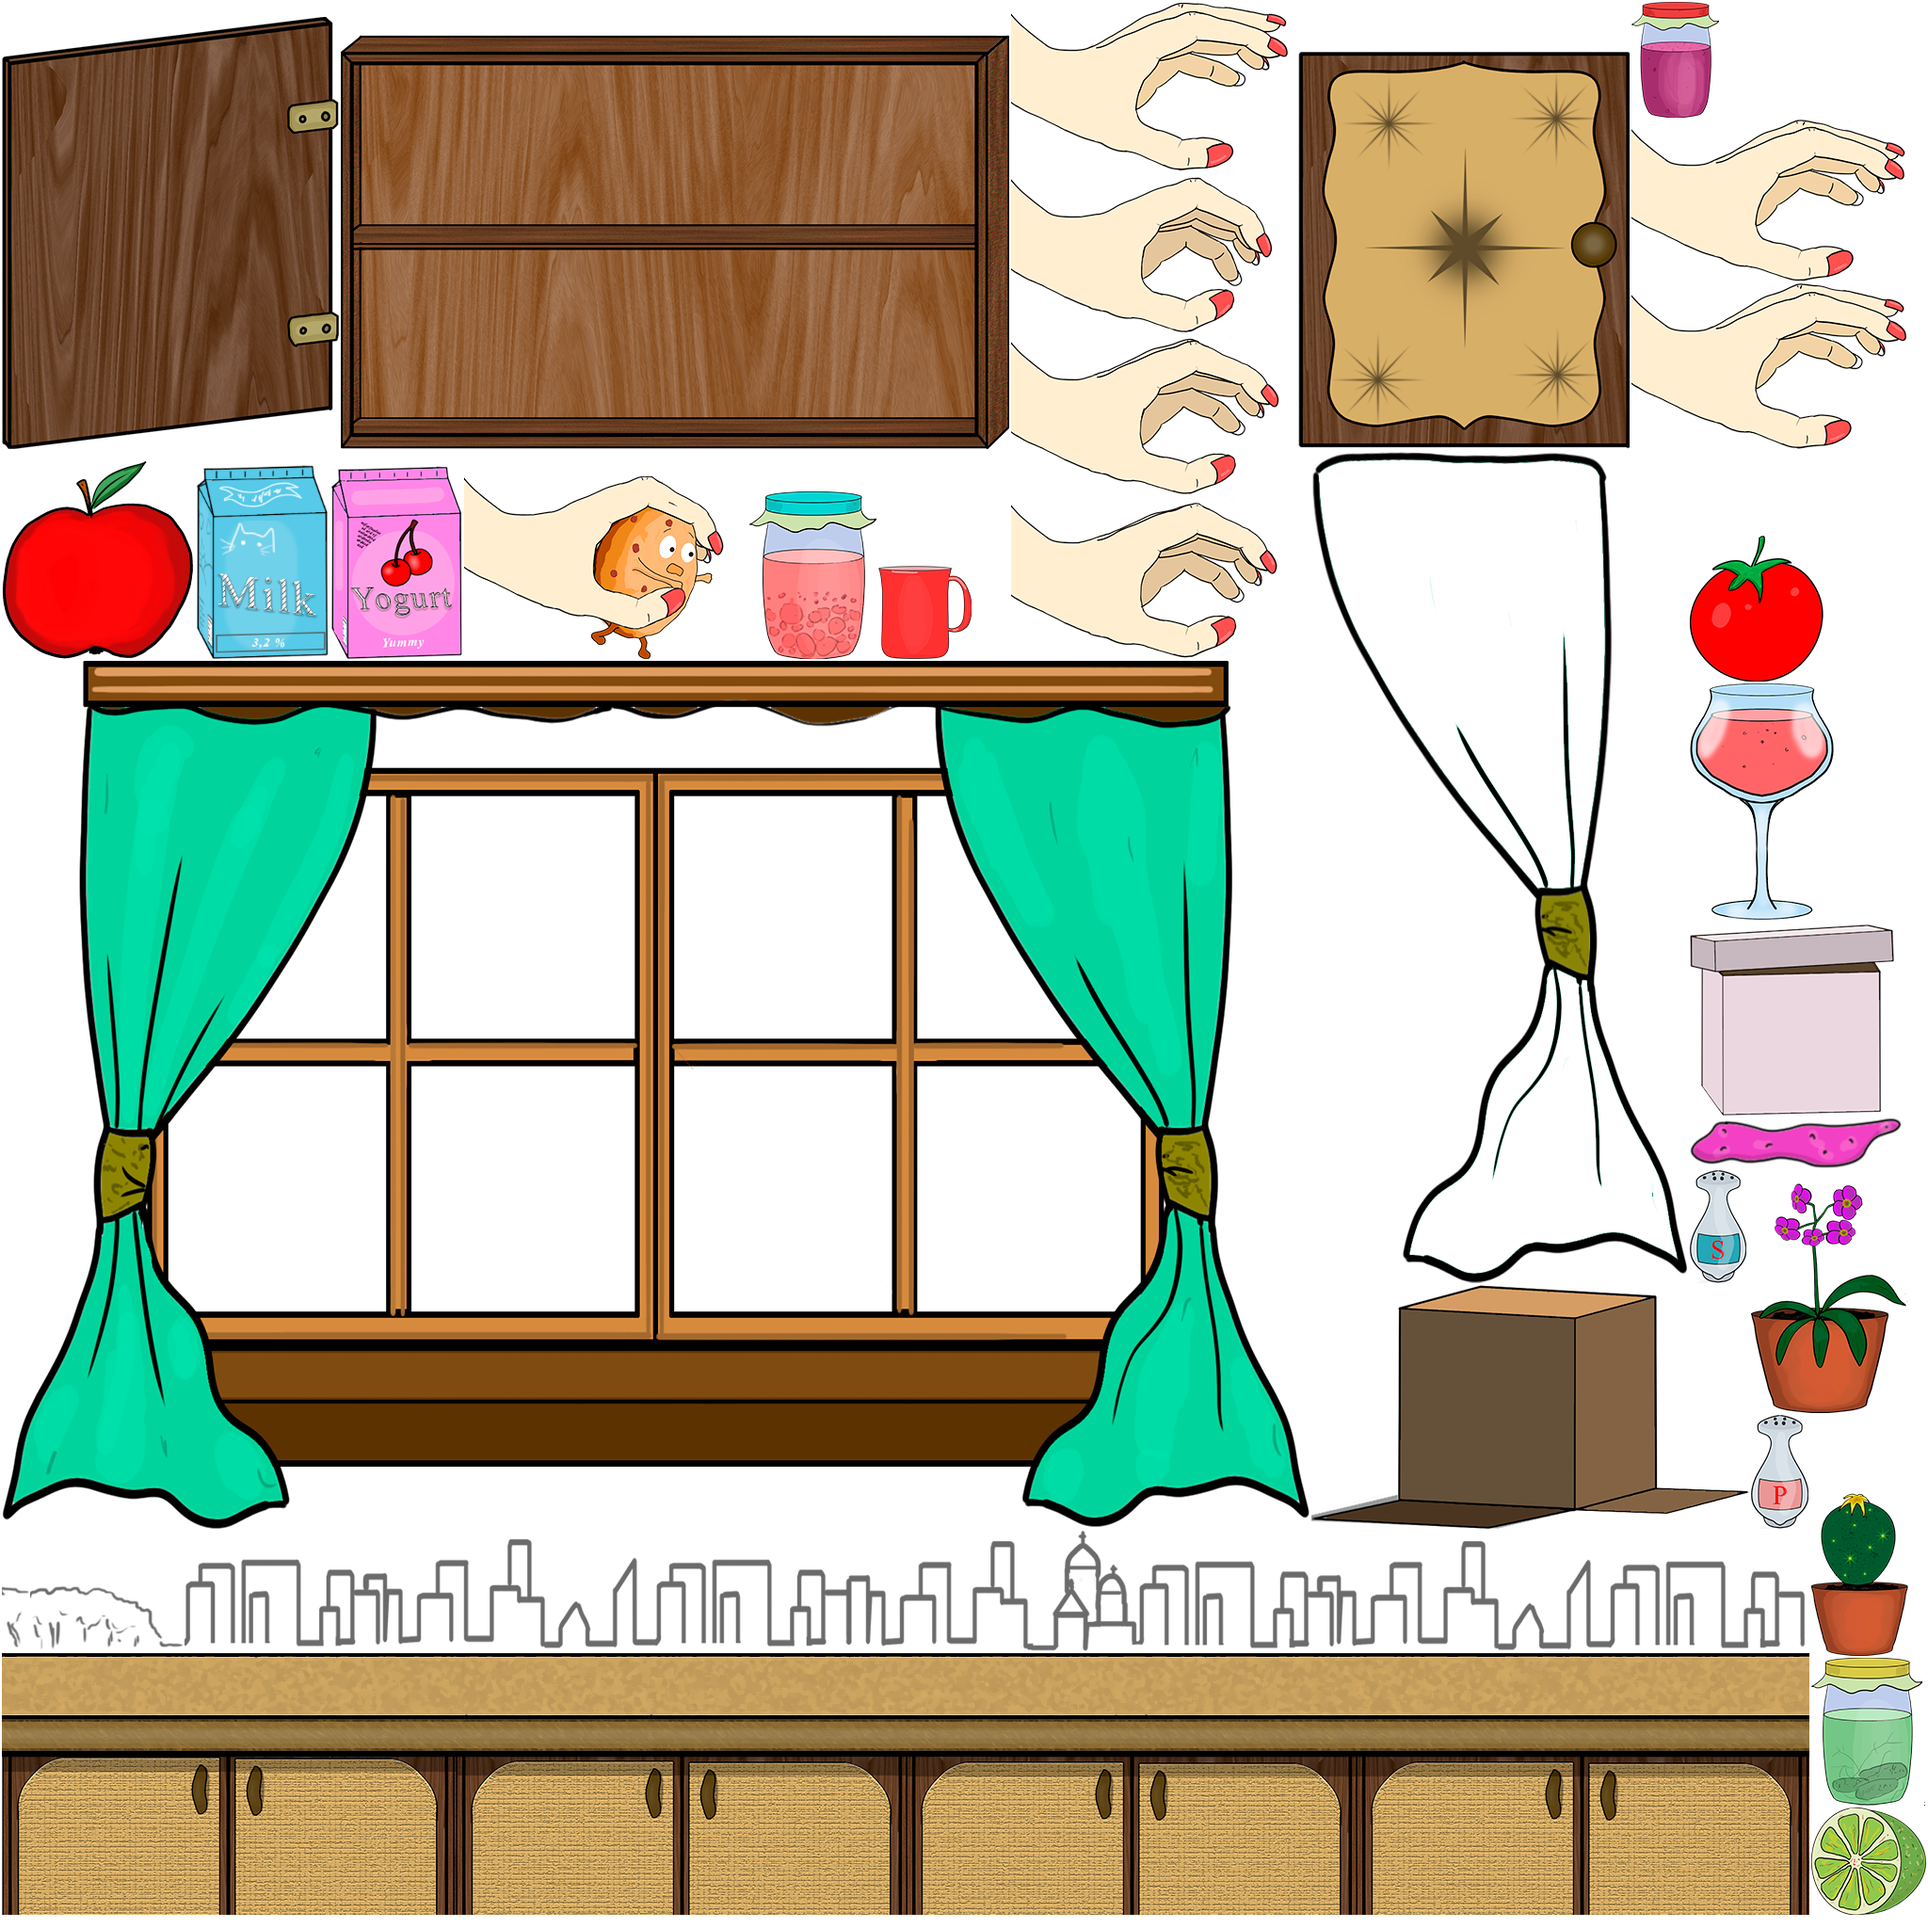
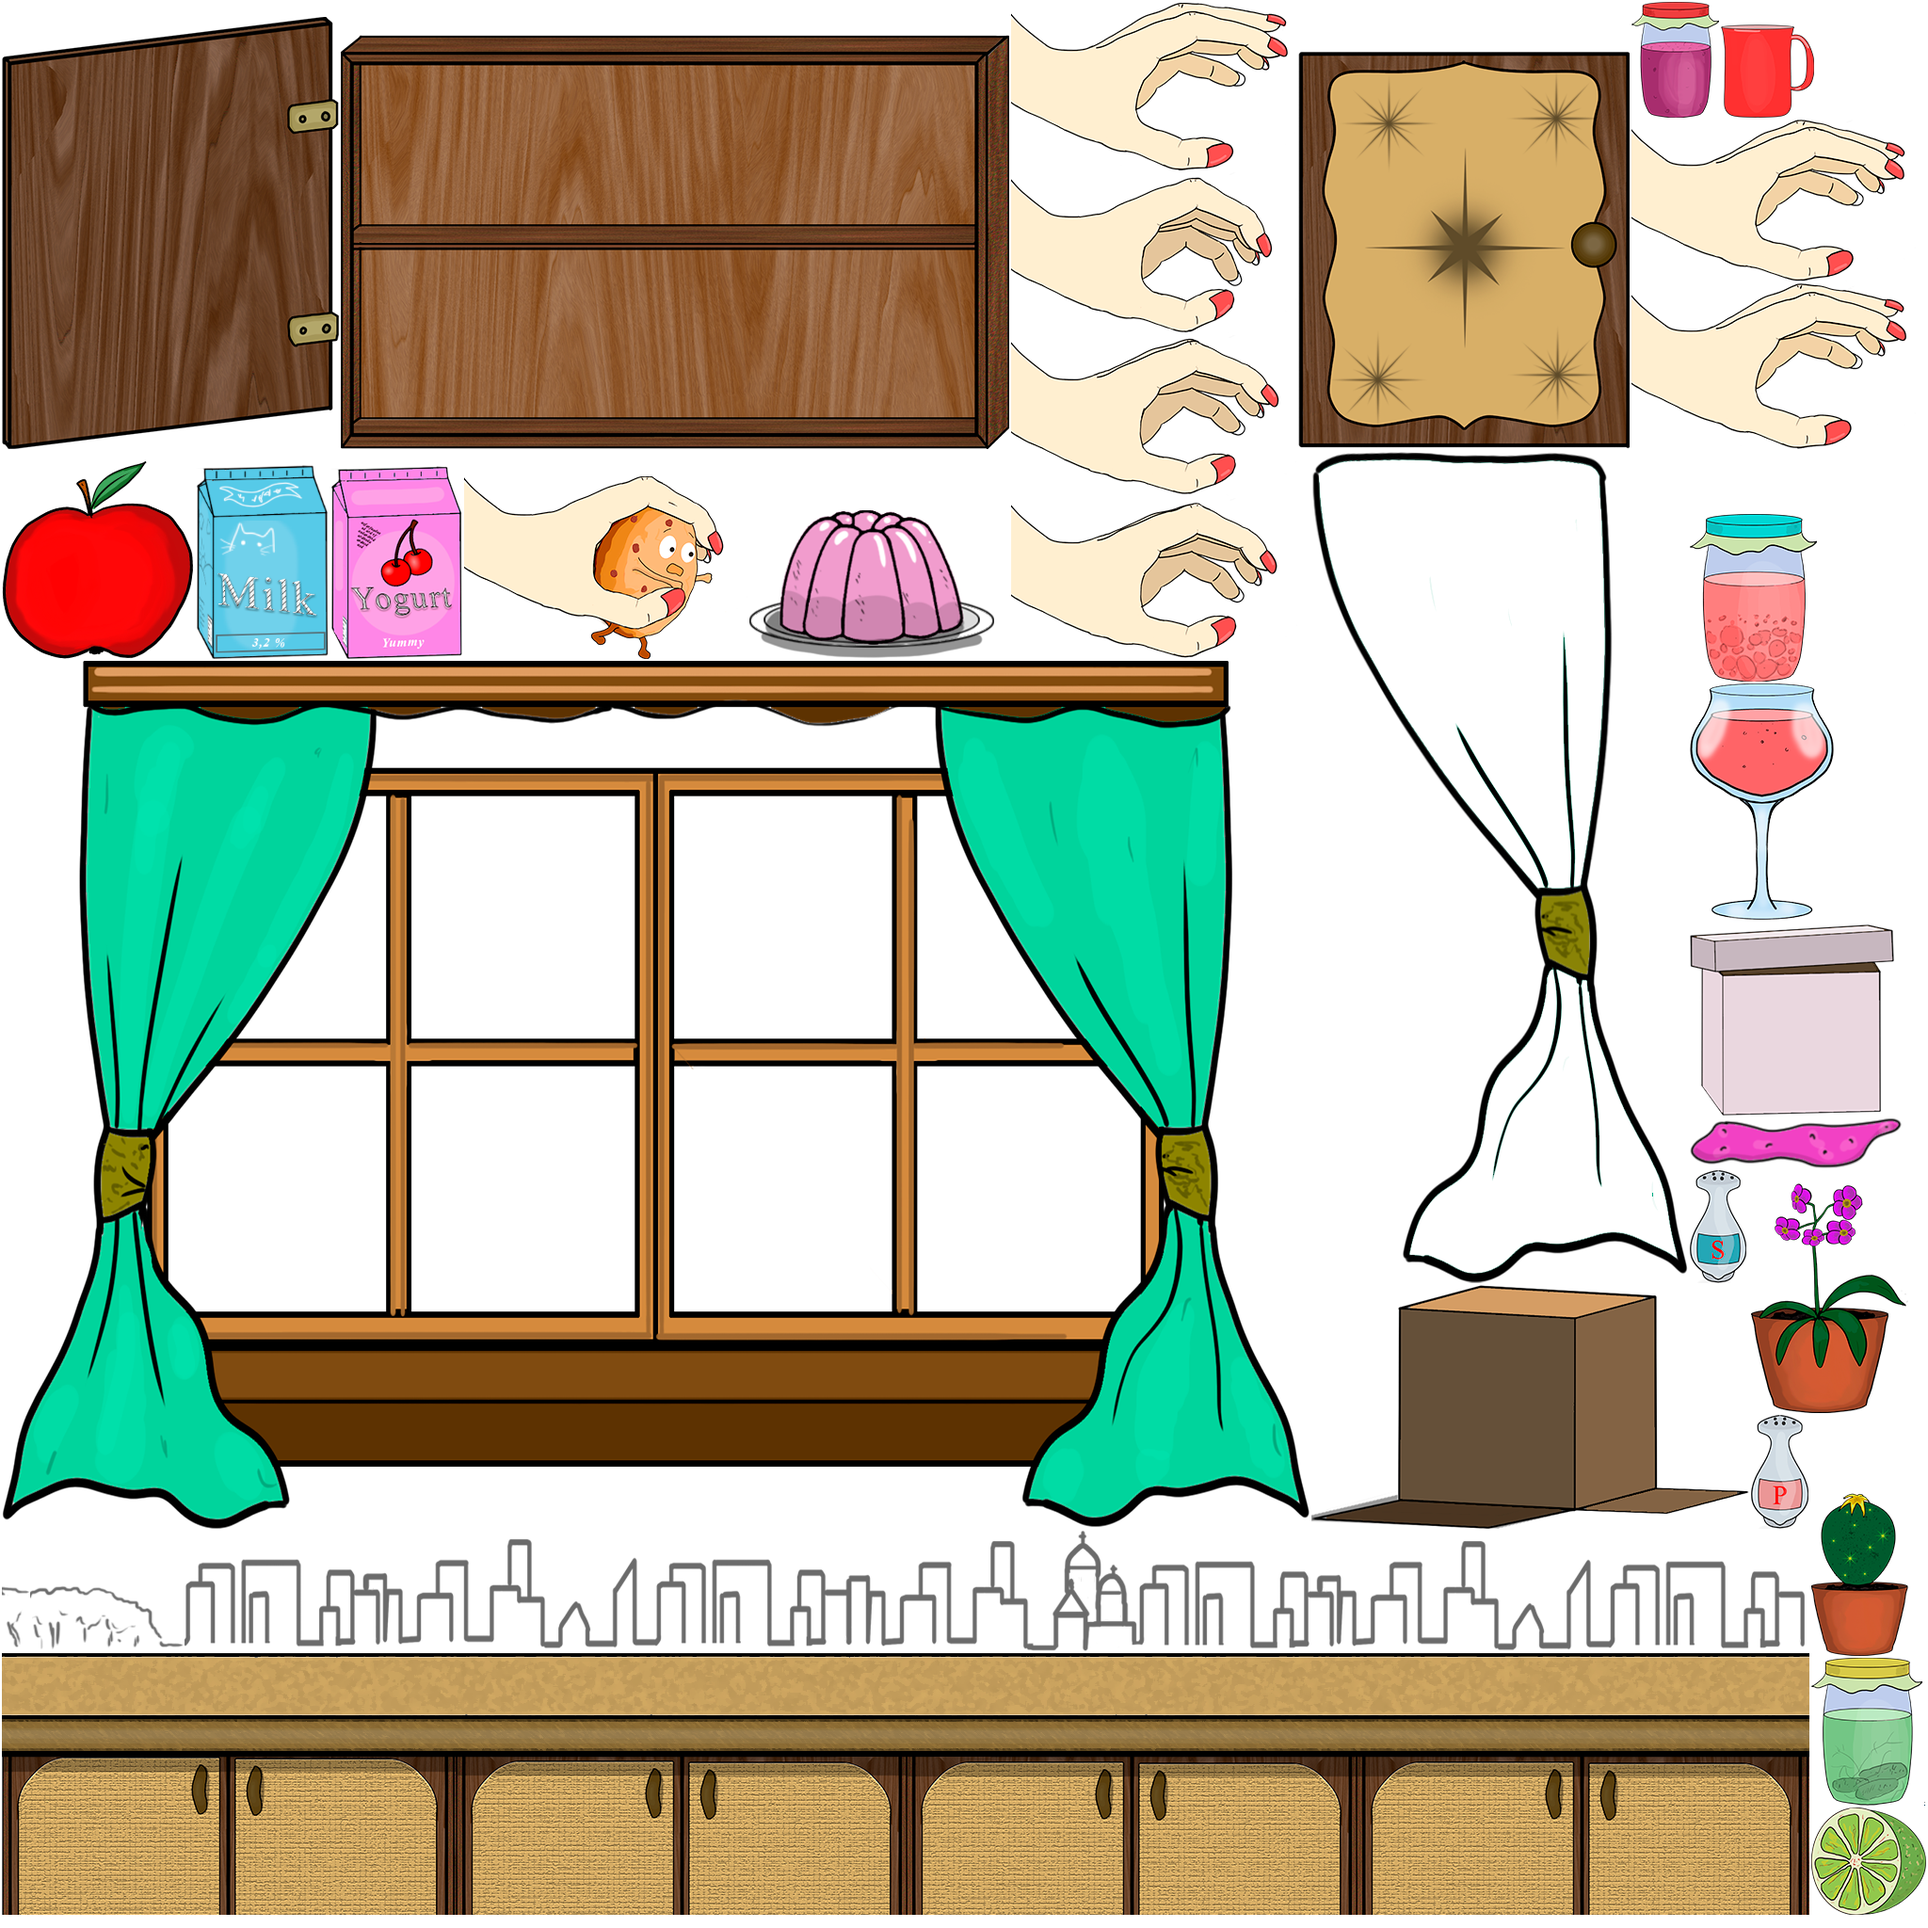
(feature) add a jelly actor

Changed region(s): [[0.375, 0.25, 0.5312, 0.3438], [0.875, 0.25, 0.9688, 0.375], [0.875, 0.0, 0.9375, 0.0625]]

diff --git a/core/src/com/mygdx/game/actors/game/RandomTableItem.kt b/core/src/com/mygdx/game/actors/game/RandomTableItem.kt
@@ -88,7 +88,7 @@ class RandomTableItem(manager : AssetManager,
     }
 
     private fun setRandomItem(){
-        when(rand.nextInt(13)){
+        when(13){//rand.nextInt(14)
             1 -> {
                 region = texture.findRegion(Assets.EnvironmentAtlas.BOX1)
                 val boundHeight = region.originalHeight.toFloat() - 25 - 20
@@ -183,7 +183,13 @@ class RandomTableItem(manager : AssetManager,
                 y = table.worktopY -20
                 jumpOnSound = Sound.JUMP_ON_BOX
             }
-            //1 -> texture.findRegion(Assets.EnvironmentAtlas.GLASS)
+            13-> {
+                region = texture.findRegion(Assets.EnvironmentAtlas.JELLY)
+                val boundHeight = region.originalHeight.toFloat() - 35 - 15
+                val boundWidth = region.originalWidth.toFloat() - 90 - 65
+                startBound = Rectangle(65f, 25f, boundWidth, boundHeight)
+                y = table.worktopY - 35f
+            }
             else -> {
                 region = texture.findRegion(Assets.EnvironmentAtlas.BOX2)
                 val boundHeight = region.originalHeight.toFloat() - 35 - 15

diff --git a/core/src/com/mygdx/game/data/Assets.kt b/core/src/com/mygdx/game/data/Assets.kt
@@ -55,6 +55,7 @@ class Assets {
             const val BOX4 = "box4"
             const val JAM = "jam"
             const val JAM2 = "jam2"
+            const val JELLY = "jelly"
         }
     }
 
